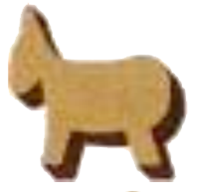
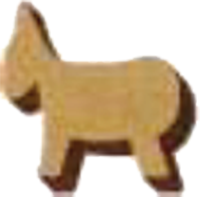
Updated graphics, and drawing

Changed region(s): [[0.0, 0.0, 0.99, 1.0], [0.63, 0.9688, 0.69, 1.0]]

diff --git a/src/main/model/Transporters/Visitor/LandTransporterDrawingVisitor.java b/src/main/model/Transporters/Visitor/LandTransporterDrawingVisitor.java
@@ -29,14 +29,15 @@ public class LandTransporterDrawingVisitor implements  LandTransporterVisitor {
         this.sectorLocation = sectorLocation;
         this.p = p;
         scale = camera.getScale()*0.5;
-        offsetX = (int)(43* camera.getScale()/0.3);
-        offsetY = (int)(15*camera.getScale()/0.3);
+        
+       
     }
 
     @Override
     public void visitDonkey(Donkey donkey){
         Image img = assets.getImage("DONKEY");
-        gc.drawImage(img, camera.offset(p).x+offsetX, camera.offset(p).y+offsetY,
+        gc.drawImage(img, camera.offset(p).x+getOffsetX(img)-assets.getImage("DONKEY").getWidth()*scale,
+                camera.offset(p).y+getOffsetY(img),
                 assets.getImage("DONKEY").getWidth()*scale,
                 assets.getImage("DONKEY").getHeight()*scale);
     }
@@ -45,7 +46,7 @@ public class LandTransporterDrawingVisitor implements  LandTransporterVisitor {
     @Override
     public void visitWagon(Wagon wagon){
         Image img = assets.getImage("WAGON");
-        gc.drawImage(img, camera.offset(p).x + offsetX, camera.offset(p).y+offsetY,
+        gc.drawImage(img, camera.offset(p).x + getOffsetX(img), camera.offset(p).y+getOffsetY(img),
                 assets.getImage("WAGON").getWidth()*scale,
                 assets.getImage("WAGON").getHeight()*scale);
     }
@@ -53,11 +54,21 @@ public class LandTransporterDrawingVisitor implements  LandTransporterVisitor {
     @Override
     public void visitTruck(Truck truck){
         Image img = assets.getImage("TRUCK");
-        gc.drawImage(img, camera.offset(p).x + offsetX, camera.offset(p).y+offsetY,
+        gc.drawImage(img, camera.offset(p).x + getOffsetX(img)+assets.getImage("DONKEY").getWidth()*scale,
+                camera.offset(p).y+getOffsetY(img),
                 assets.getImage("TRUCK").getWidth()*scale,
                 assets.getImage("TRUCK").getHeight()*scale);
     }
 
+    private int getOffsetX(Image img){
+        offsetX = (int)(400*camera.getScale()/2-img.getWidth()*scale/2);
+        return offsetX;
+    }
+    
+    private int getOffsetY(Image img){
+        offsetY = (int)(200*camera.getScale()/2-img.getHeight()*scale/2);
+        return offsetY;
+    }
 //
 //    private Point findDrawingPoint(CardinalDirection cardinalDirection){
 //        Point sectorDrawingLocation = new Point();

diff --git a/src/main/view/Scene/gamePanel/GameboardPanel.java b/src/main/view/Scene/gamePanel/GameboardPanel.java
@@ -12,9 +12,7 @@ import model.TileSubsystem.Sector;
 import model.TileSubsystem.Tiles.LandTile;
 import model.TileSubsystem.Tiles.Tile;
 import model.TileSubsystem.Visitor.TileDrawingVisitor;
-import model.Transporters.Donkey;
-import model.Transporters.LandTransporter;
-import model.Transporters.Transporter;
+import model.Transporters.*;
 import model.Transporters.Visitor.LandTransporterDrawingVisitor;
 import utilities.TileEditor;
 import view.Camera;
@@ -49,11 +47,11 @@ public class GameboardPanel extends Panel {
         this.panelManager = panelManager;
         landTransporterManager = game.getLandTransporterManager();
         updateGameMap();
-        addDonkey();
+        addTransporters();
     }
 
     //TODO: this is a test function, delete it after
-    private void addDonkey(){
+    private void addTransporters(){
 //        Donkey dq = new Donkey();
 //        Location l = new Location(0,0,0);
 //        game.getActualMap().formatSurfaceMaps();
@@ -62,13 +60,13 @@ public class GameboardPanel extends Panel {
 //        landTransporterManager.add(dq, lt1.getSectorAtCardinalDirection(CardinalDirection.NE));
 
         Donkey dq = new Donkey();
-        Donkey dq2 = new Donkey();
+        Wagon dq2 = new Wagon();
         Donkey dq3 = new Donkey();
         Donkey dq4 = new Donkey();
-        Donkey dq5 = new Donkey();
-        Donkey dq6 = new Donkey();
-        Donkey dq7 = new Donkey();
-        Donkey dq8 = new Donkey();
+        Wagon dq5 = new Wagon();
+        Truck dq6 = new Truck();
+        Wagon dq7 = new Wagon();
+        Truck dq8 = new Truck();
         landTransporterManager.add(dq, gameMap.getTile(new Location(0,0,0)).getSectorAtCardinalDirection(CardinalDirection.NE));
         landTransporterManager.add(dq2, gameMap.getTile(new Location(0,0,0)).getSectorAtCardinalDirection(CardinalDirection.SSE));
         landTransporterManager.add(dq3, gameMap.getTile(new Location(-1,0,1)).getSectorAtCardinalDirection(CardinalDirection.NNE));

diff --git a/src/main/view/assets/Assets.java b/src/main/view/assets/Assets.java
@@ -60,6 +60,8 @@ public class Assets {
         loadItem("WONDER_BOARD", "Assets/WonderBoard.png");
         //Load transporters
         loadItem("DONKEY", "Assets/Transporters/Donkey.png");
+        loadItem("WAGON","Assets/Transporters/Wagon.png");
+        loadItem("TRUCK","Assets/Transporters/Truck.png");
     }
 
     public void loadItem(String name, String path){
